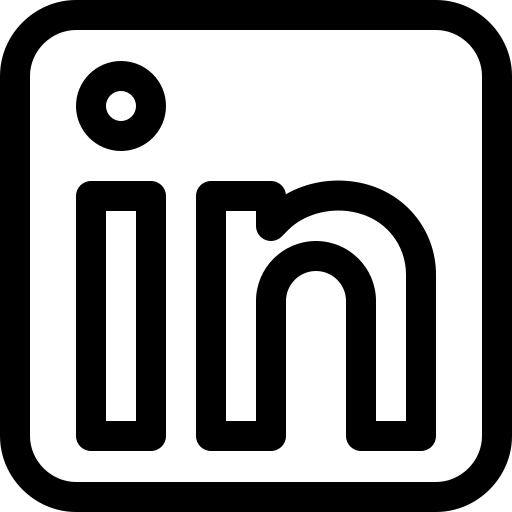
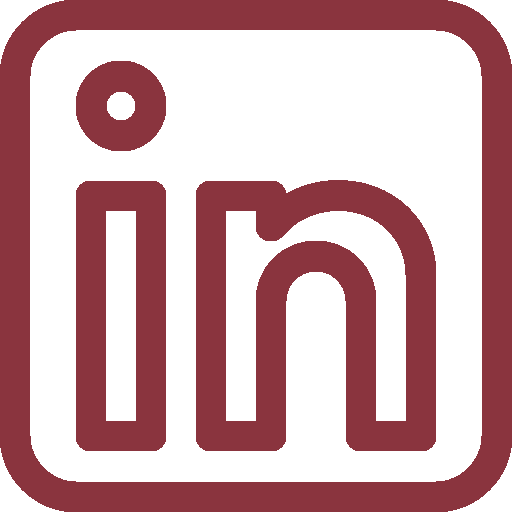
update button set

diff --git a/index.html b/index.html
@@ -621,8 +621,8 @@
           <a href="https://scholar.google.com/citations?user=QgJz1YIAAAAJ&hl=en" target="_blank" class="hero-icon-btn">
             <img src="icon_scholar.png" alt="Google Scholar">
           </a>
-          <a href="https://yannisyuan.github.io" target="_blank" class="hero-icon-btn">
-            <img src="icon_web.png" alt="Website">
+          <a href="https://www.linkedin.com/in/yannisyuan/" target="_blank" class="hero-icon-btn">
+            <img src="icon_linkedin.png" alt="LinkedIn">
           </a>
         </div>
         </div>
